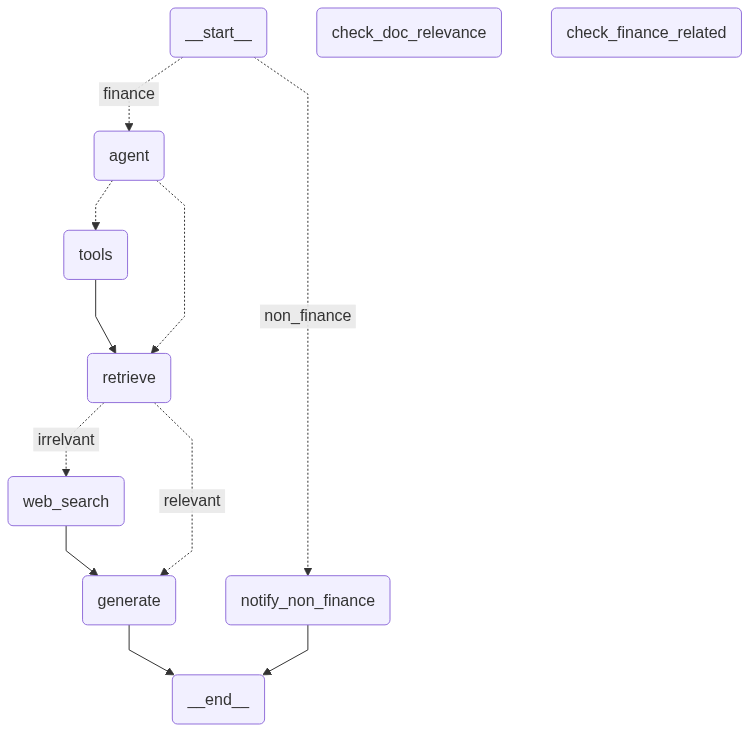
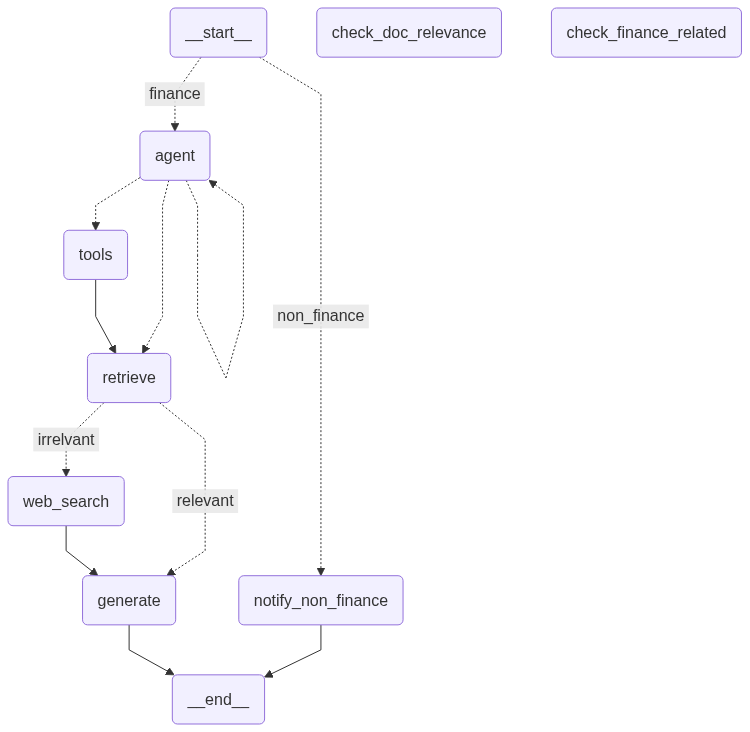
FEAT: add human feedback step to verify tool call validity

diff --git a/main.py b/main.py
@@ -13,6 +13,7 @@ from langchain_community.tools import TavilySearchResults
 from typing import Literal
 from langgraph.graph import END
 from langchain_core.messages import ToolMessage
+from typing import Union
 
 from loan_tools import equal_principal_schedule, equal_payment_schedule, bullet_repayment_schedule
 
@@ -220,8 +221,16 @@ def should_continue(state: AgentState) -> Literal['tools', "retrieve"]:
     
     # 마지막 AI 메시지가 도구 호출을 포함하고 있는지 확인합니다.
     if last_ai_message.tool_calls:
-        # 도구 호출이 있으면 'tools'를 반환합니다.
-        return 'tools'
+        print("🔍 Tool Calls Detected:")
+        for call in last_ai_message.tool_calls:
+            print(f"- Tool Name: {call['name']}")
+            print(f"- Arguments: {call['args']}")
+
+        feedback = input("👍 이 tool 호출이 적절한가요? (y/n): ")
+        if feedback.lower() == "y":
+            return "tools"
+        else:
+            return "agent"
     
     # 도구 호출이 없으면 retrieve로 넘어가 관련 문서들을 참조합니다.
     return "retrieve"
@@ -248,7 +257,7 @@ graph_builder.add_conditional_edges(
 graph_builder.add_conditional_edges(
     'agent',
     should_continue,
-    ['tools', "retrieve"]  # 도구 호출이 있으면 'tools'로, 없으면 'retrieve'로 이동
+    ['tools', "agent", "retrieve"]  # 도구 호출이 있으면 'tools'로, 없으면 'retrieve'로 이동
 )
 graph_builder.add_edge('tools', 'retrieve')
 
